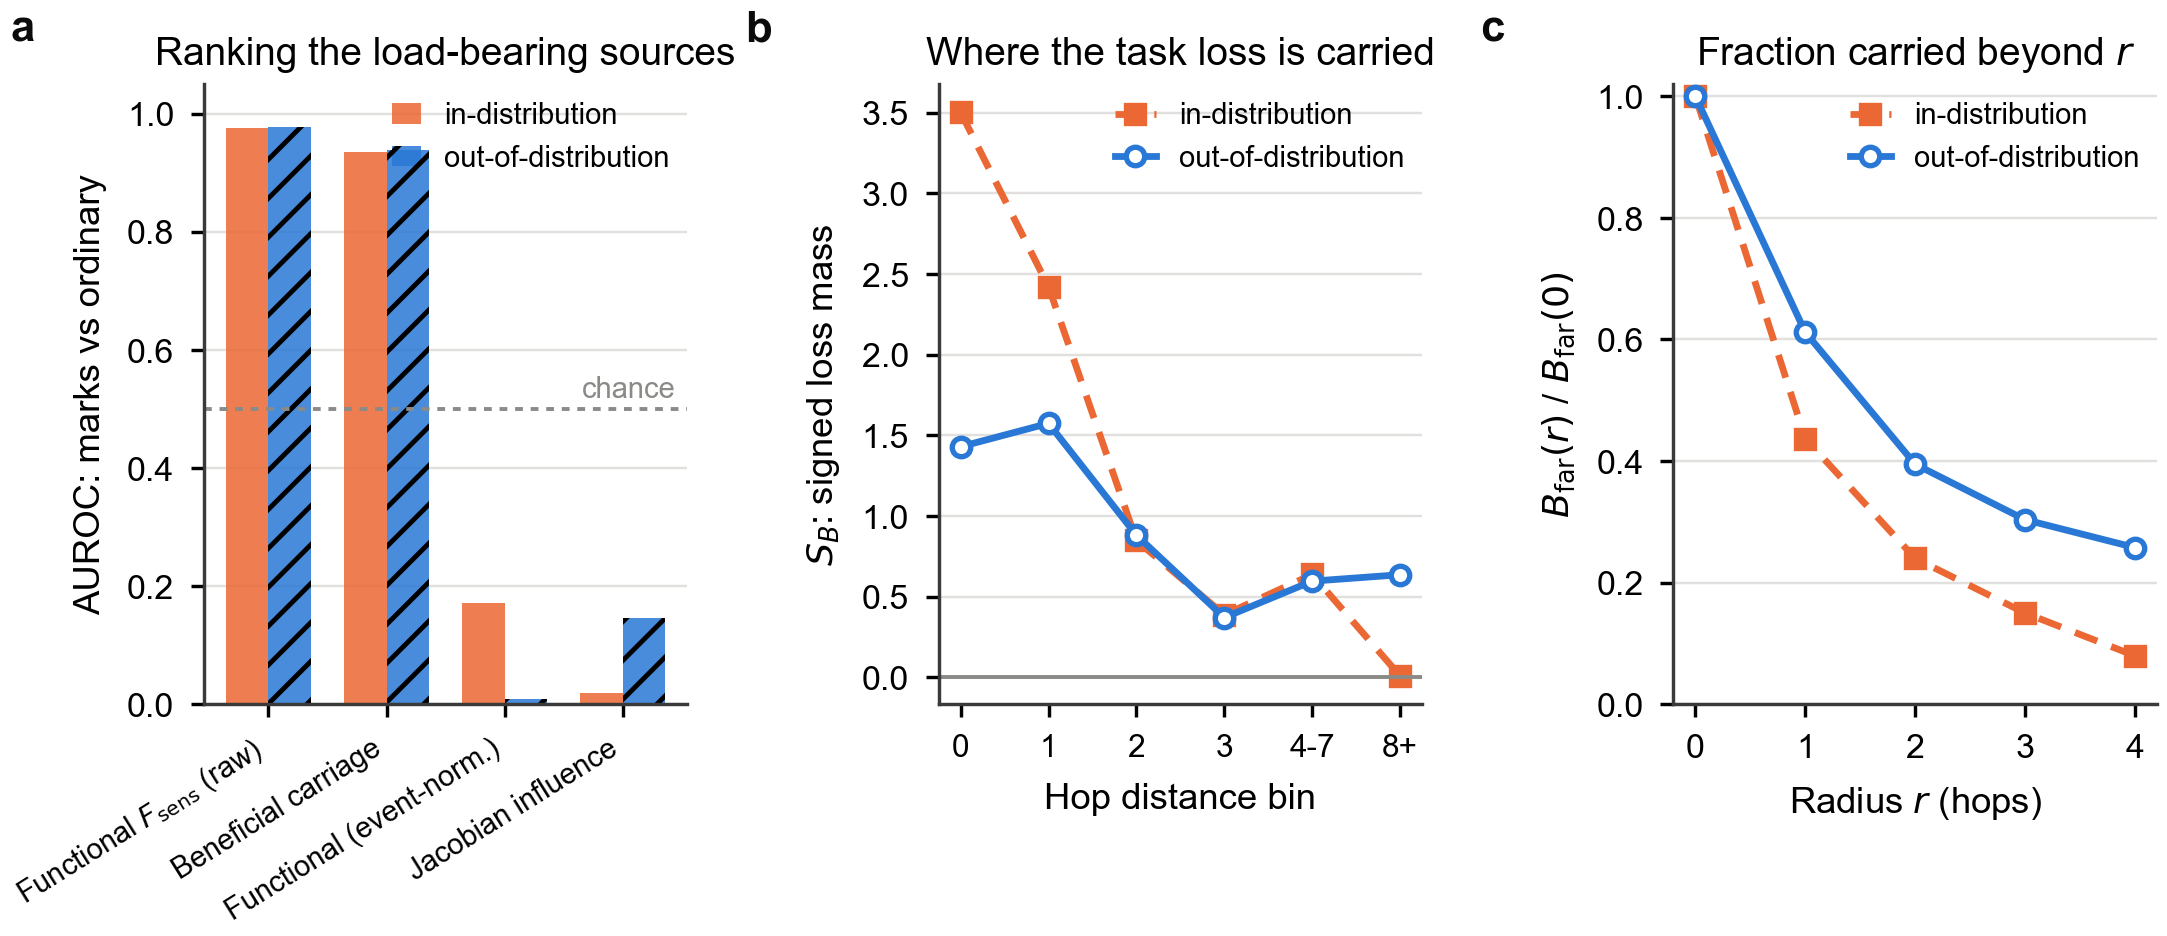
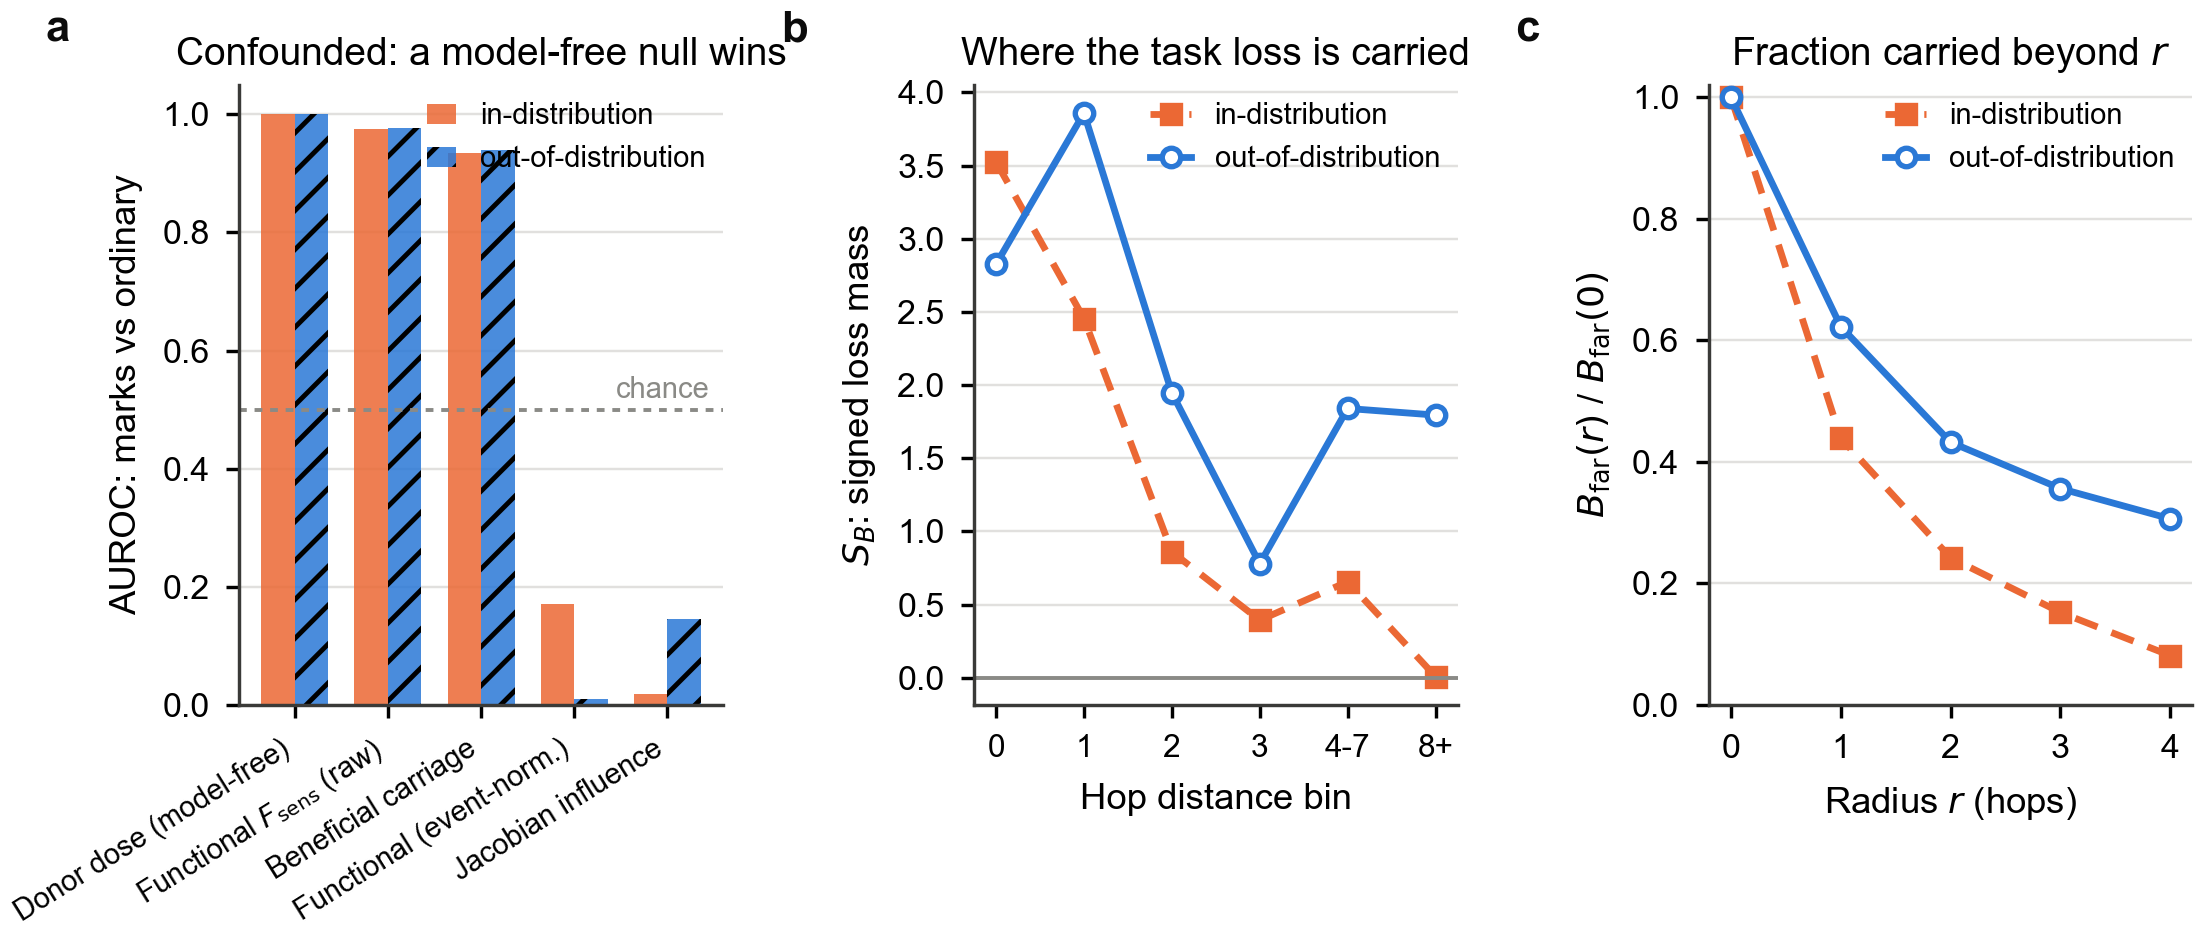
updates

diff --git a/experiments/synthetic/range_comparison/run_beneficial.py b/experiments/synthetic/range_comparison/run_beneficial.py
@@ -10,12 +10,20 @@ change.
 passes through zero.  Section 7 gives the right accumulations instead: ``S_B(b)``, signed loss mass
 per distance bin, and ``B_far(r)``, mass carried beyond radius ``r``.
 
-THE GROUND-TRUTH TEST.  On this task the labels are determined by the two marked endpoints: node
-``v`` is positive iff it lies on the S--T path.  Corrupting a mark destroys information the model
-cannot recover, since there are only two of them; corrupting one ordinary node removes one row of
-positional encoding out of ``n``, which the message-passing branch can largely compensate for
-(the adjacency is never perturbed).  So a faithful measure should rank ``{S, T}`` above ordinary
-nodes as *sources*, and we can score every measure by that ranking with real labels.
+THE GROUND-TRUTH TEST, AND WHY ITS NAIVE FORM FAILS.  Labels are determined by the two marked
+endpoints, and corrupting a mark costs far more than corrupting an ordinary node (+1.92 against
++0.14 in distribution).  That much is solidly established.  But ranking sources by any measure is
+NOT a faithfulness test, because a mark's ``h0`` row sits 6x further from a typical donor row than
+an ordinary node's: **donor dose alone scores AUROC 1.000**, above every measure it would be used
+to score.  The dose null is therefore computed and reported alongside, and the ranking table must
+be read as a dose-monotonicity ordering, not a faithfulness ordering.
+
+Two mechanism notes, both measured rather than assumed: an unmarked donor's token embedding *is*
+``e_0``, so a token-channel swap at an ordinary node is an exact no-op, and essentially all of an
+ordinary node's damage comes through the RWSE channel -- which is load-bearing here, not
+compensated (zeroing it drops ID F1 from 0.946 to 0.560).  This checkpoint uses
+``structural_channel='rwse'``, so ``batch.spd`` is identically zero and RWSE is the only per-node
+positional input.
 
 Run on both splits: in-distribution, where the model is at 0.98 node accuracy and the loss sits
 near its floor, and out-of-distribution, where it collapses and there is real loss headroom.
@@ -171,9 +179,22 @@ def measure_graph(model, example, args, pool, *, graph_id: int, rng) -> dict:
     is_mark[marks] = True
     mark_in_sources = is_mark[sources]
 
+    # Inverse-probability weights.  Marks are force-included and carry ~8x the per-source signed
+    # mass of an ordinary node, so an unweighted sum over the stratified set would inflate every
+    # section 7 accumulation -- and inflate it far more on the OOD split, where every graph is
+    # capped, than on ID, where almost none are.  AUROC is unaffected (only negatives are
+    # sampled); the SUMS are not, so they are weighted back to the full node set.
+    weights = np.ones(len(sources), dtype=np.float64)
+    if len(sources) < nodes:
+        kept_others = int((~mark_in_sources).sum())
+        if kept_others:
+            weights[~mark_in_sources] = (nodes - marks.size) / kept_others
+
     return {
         "nodes": nodes,
         "sources": sources,
+        "source_weights": weights,
+        "capped": bool(len(sources) < nodes),
         "distances": distances,
         "beneficial": beneficial,
         "functional": functional,
@@ -184,6 +205,8 @@ def measure_graph(model, example, args, pool, *, graph_id: int, rng) -> dict:
         "converged_fraction": converged,
         "mean_event_loss_increase": float(event_loss_increase.mean()),
         "auroc": {
+            # The model-free null this table has to beat, and does not.
+            "dose_null": auroc(dose.mean(axis=1), mark_in_sources),
             "beneficial": auroc(beneficial.sum(axis=0), mark_in_sources),
             "functional": auroc(functional.sum(axis=0), mark_in_sources),
             "functional_raw": auroc(functional_raw.sum(axis=0), mark_in_sources),
@@ -201,7 +224,8 @@ def accumulate_by_distance(records: list[dict], field: str, edges: list[int]) ->
         values = record[field]
         for low, high in zip(edges, edges[1:] + [10**9]):
             cells = (d >= low) & (d < high) & np.isfinite(d)
-            per_graph[low].append(float(values[cells].sum()) if cells.any() else 0.0)
+            weighted = values * record["source_weights"][None, :]
+            per_graph[low].append(float(weighted[cells].sum()) if cells.any() else 0.0)
     return {int(k): float(np.mean(v)) for k, v in per_graph.items()}
 
 
@@ -212,7 +236,8 @@ def far_mass(records: list[dict], field: str, radii: list[int]) -> dict:
         for record in records:
             d = record["distances"][:, record["sources"]]
             cells = (d > radius) & np.isfinite(d)
-            values.append(float(record[field][cells].sum()) if cells.any() else 0.0)
+            weighted = record[field] * record["source_weights"][None, :]
+            values.append(float(weighted[cells].sum()) if cells.any() else 0.0)
         out[int(radius)] = float(np.mean(values))
     return out
 
@@ -256,11 +281,12 @@ def run_split(model, args, split: str, min_n: int, max_n: int, pool) -> dict:
         "F_far": far_mass(records, "functional", radii),
         "auroc": {
             key: float(np.mean([r["auroc"][key] for r in records]))
-            for key in ("beneficial", "functional", "functional_raw", "jacobian")
+            for key in ("dose_null", "beneficial", "functional", "functional_raw", "jacobian")
         },
+        "capped_graphs": int(sum(r["capped"] for r in records)),
         "auroc_per_graph": {
             key: [r["auroc"][key] for r in records]
-            for key in ("beneficial", "functional", "functional_raw", "jacobian")
+            for key in ("dose_null", "beneficial", "functional", "functional_raw", "jacobian")
         },
     }
     print(
@@ -270,7 +296,9 @@ def run_split(model, args, split: str, min_n: int, max_n: int, pool) -> dict:
         flush=True,
     )
     print(f"      mean event loss increase = {summary['mean_event_loss_increase']:+.4f}")
-    print("      AUROC for ranking the two marks as sources:")
+    print(f"      capped graphs: {summary['capped_graphs']}/{summary['graphs']} "
+          "(section 7 sums are inverse-probability weighted)")
+    print("      AUROC for ranking the two marks as sources (dose_null is model-free):")
     for key, value in summary["auroc"].items():
         print(f"        {key:>15}: {value:.3f}")
     print("      S_B by distance bin:", {k: round(v, 4) for k, v in summary["S_B"].items()})

diff --git a/experiments/synthetic/range_comparison/figures.py b/experiments/synthetic/range_comparison/figures.py
@@ -839,12 +839,13 @@ def figure_beneficial() -> Path:
     data = load("beneficial.json")
     splits = ["id", "ood"]
     labels = {
+        "dose_null": "Donor dose (model-free)",
         "functional_raw": "Functional $F_{\\mathrm{sens}}$ (raw)",
         "beneficial": "Beneficial carriage",
         "functional": "Functional (event-norm.)",
         "jacobian": "Jacobian influence",
     }
-    order = ["functional_raw", "beneficial", "functional", "jacobian"]
+    order = ["dose_null", "functional_raw", "beneficial", "functional", "jacobian"]
 
     fig, axes = plt.subplots(1, 3, figsize=(7.2, 2.3))
     fig.subplots_adjust(wspace=0.52)
@@ -872,7 +873,7 @@ def figure_beneficial() -> Path:
     ax.set_xticklabels([labels[key] for key in order], rotation=32, ha="right", fontsize=6.0)
     ax.set_ylabel("AUROC: marks vs ordinary")
     ax.set_ylim(0, 1.05)
-    ax.set_title("Ranking the load-bearing sources", pad=4)
+    ax.set_title("Confounded: a model-free null wins", pad=4)
     ax.legend(frameon=False, fontsize=6.0, handlelength=1.0, borderpad=0.1, loc="upper right")
     ax.grid(axis="y", alpha=0.9)
     ax.set_axisbelow(True)

diff --git a/experiments/synthetic/range_comparison/README.md b/experiments/synthetic/range_comparison/README.md
@@ -257,10 +257,16 @@ loss increase to `3e-5` — the section 6 identity holds.
 `B` is signed, so it cannot go through the expected-distance formula. The reportable objects are
 §7's accumulations, `S_B(b)` and `B_far(r)`.
 
-**Where the task loss is carried.** In distribution, 8% of the signed loss mass sits beyond four
-hops; out of distribution (64–96 nodes, where graph-exact collapses to 0.004) that rises to **26%**,
-and the `8+` bin goes from `0.008` to `0.635`. The model's task-relevant dependence genuinely
-reaches further on the larger graphs it fails on.
+**Where the task loss is carried.** In distribution, `8.1%` of the signed loss mass sits beyond four
+hops; out of distribution (64–96 nodes, where graph-exact collapses to 0.004) that rises to
+**`30.6%`**, and the `8+` bin goes from `0.008` to `1.795`. The model's task-relevant dependence
+genuinely reaches further on the larger graphs it fails on.
+
+These sums are **inverse-probability weighted**, and they have to be. The source cap force-includes
+both marks, which carry roughly 8× the per-source signed mass of an ordinary node — and it bites
+asymmetrically, capping 2/12 graphs in distribution against 12/12 out of it. Unweighted, the same
+run reports `26%` rather than `30.6%` and overstates the mean event loss increase by 44%. AUROC is
+unaffected (only negatives are sampled); the accumulations are not.
 
 **A ground-truth test that did not survive contact.** The intended test was to score each measure
 by how well it ranks the two marked endpoints above ordinary nodes as intervention sources. It
